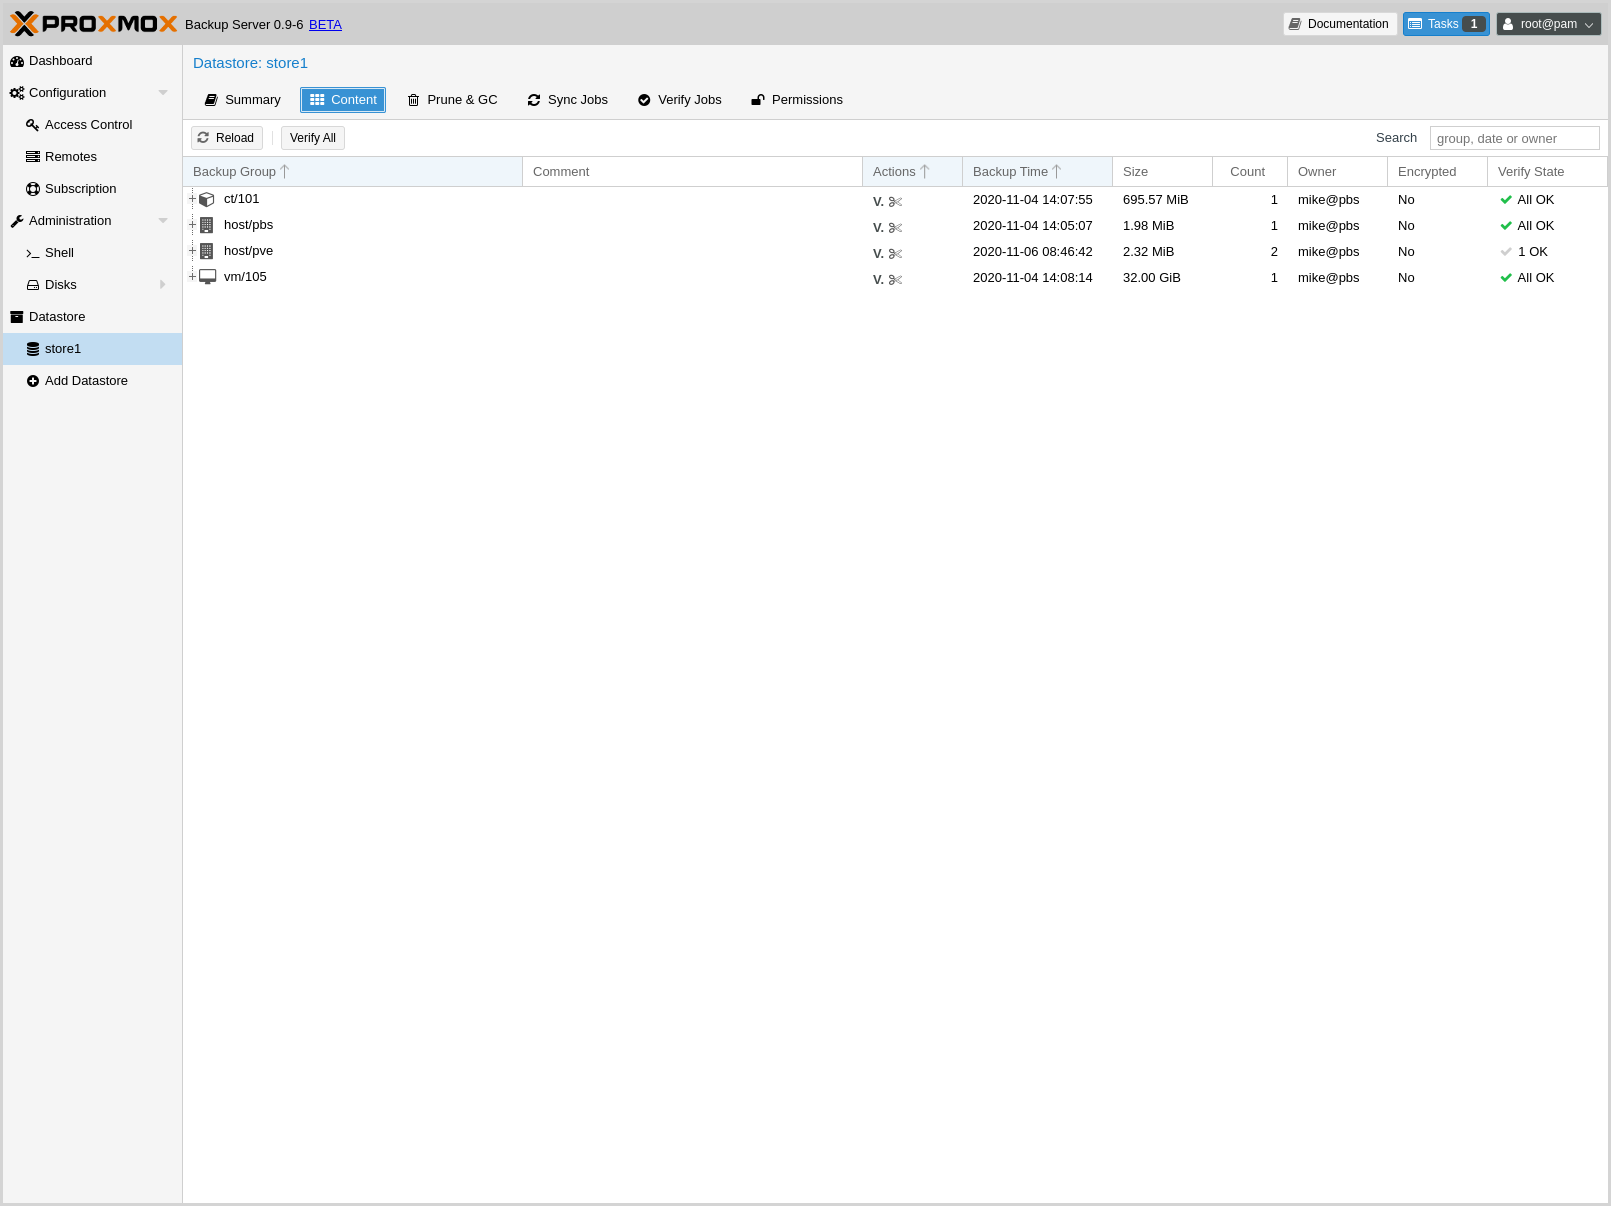
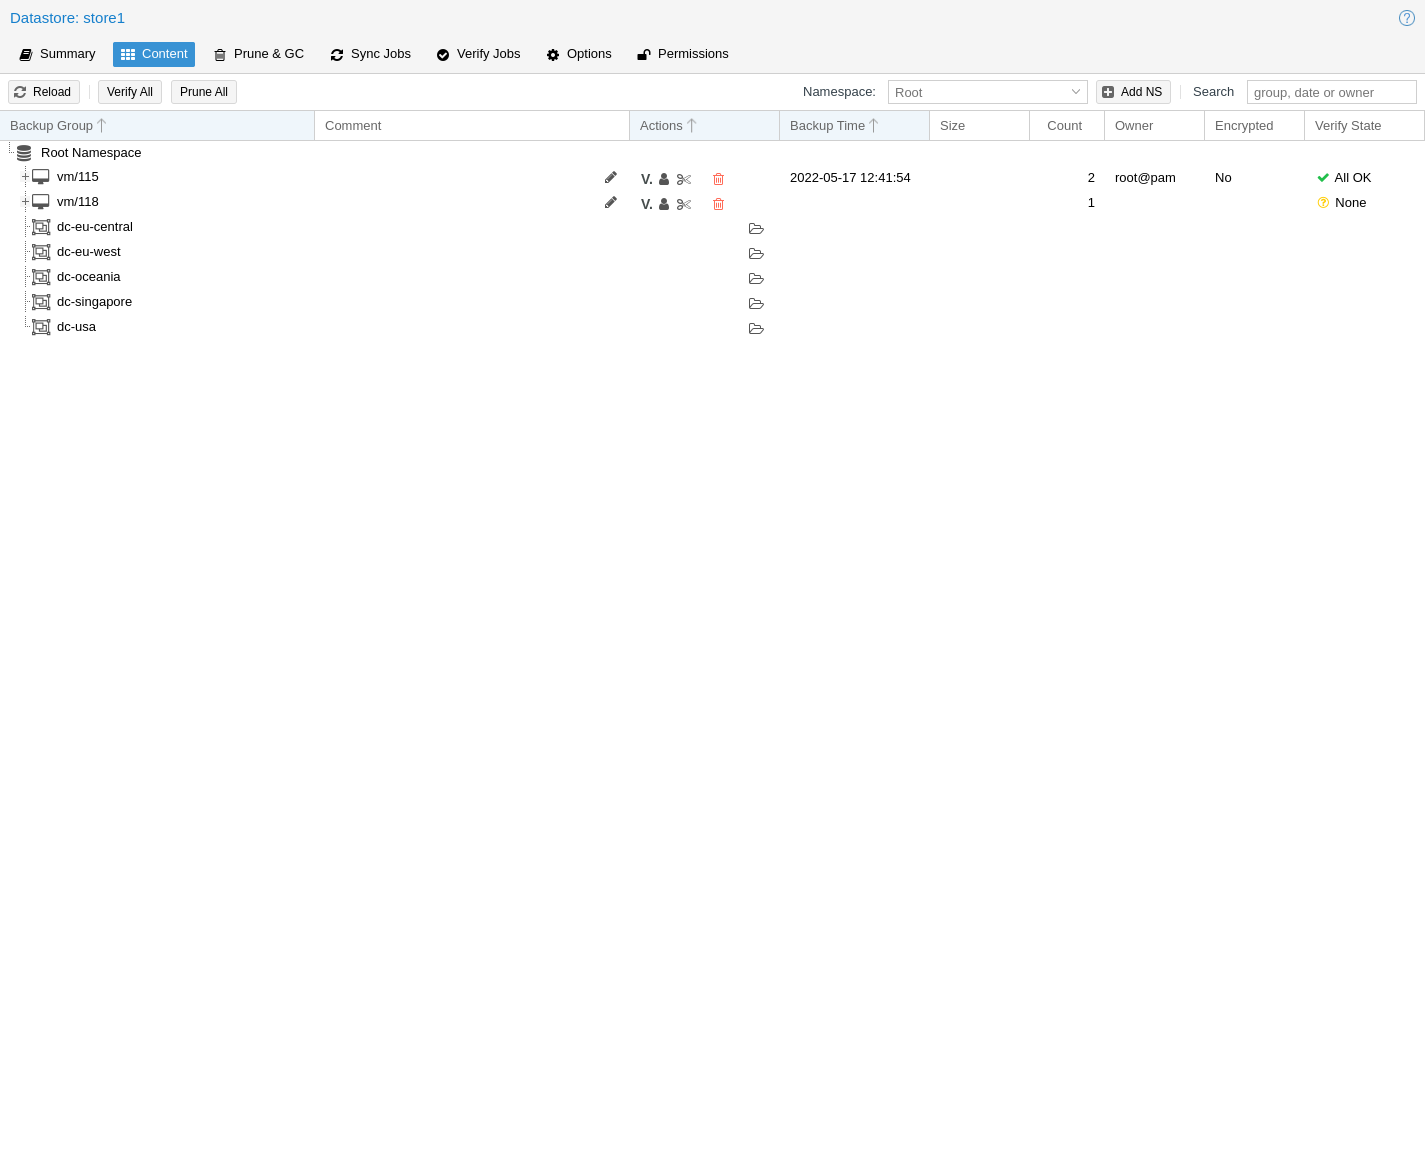
docs: update and add screenshots

Changed region(s): [[0.0, 0.0, 1.0, 1.0], [0.5249, 0.1865, 0.5558, 0.2487], [0.3088, 0.1244, 0.3705, 0.1554]]

diff --git a/docs/storage.rst b/docs/storage.rst
@@ -116,7 +116,7 @@ Datastore Configuration
 
 .. image:: images/screenshots/pbs-gui-datastore-content.png
   :align: right
-  :alt: Datastore Overview
+  :alt: Datastore Content Overview
 
 You can configure multiple datastores. A minimum of one datastore needs to be
 configured. The datastore is identified by a simple *name* and points to a
@@ -133,7 +133,7 @@ run periodically, based on a configured schedule (see
 
 Creating a Datastore
 ^^^^^^^^^^^^^^^^^^^^
-.. image:: images/screenshots/pbs-gui-datastore-create-general.png
+.. image:: images/screenshots/pbs-gui-datastore-create.png
   :align: right
   :alt: Create a datastore
 
